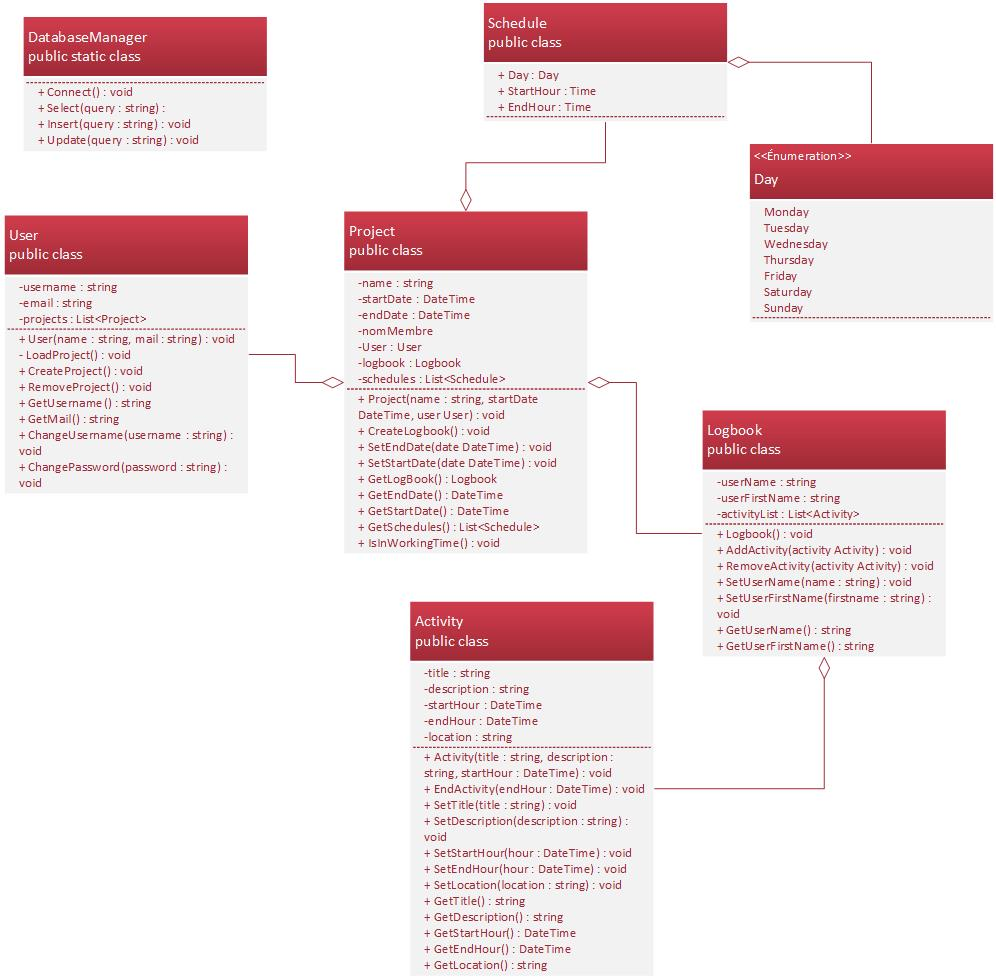
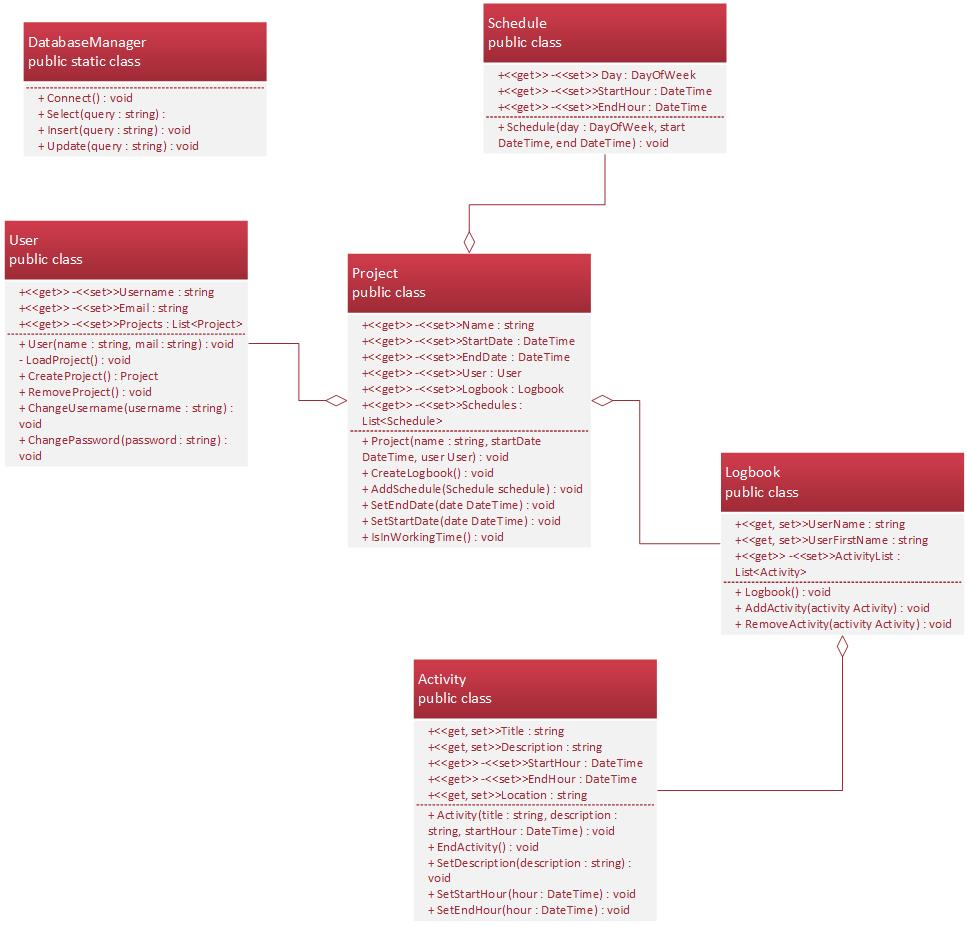
Début des tests unitaires, modifications du digramme UML

diff --git a/APP/Logy/Logy/Logy.UnitTest/UnitTest1.cs b/APP/Logy/Logy/Logy.UnitTest/UnitTest1.cs
@@ -8,11 +8,77 @@ namespace Logy.UnitTest
     public class UnitTest1
     {
         [TestMethod]
-        public void TestMethod1()
+        public void AddProjectTest()
         {
-            Activity act = new Activity("ui", "Je suis une activité", new DateTime(1, 1, 1));
+            User user = new User("user1", "user@mail");
 
-            Assert.AreEqual("ui", act.GetTitle());
+            user.CreateProject("project1", new DateTime(2018, 12, 11));
+
+            int nbProjects = user.Projects.Count;
+
+            Assert.AreEqual(1, nbProjects);
         }
+
+        [TestMethod]
+        [ExpectedException(typeof(Exception))]
+        public void AddSameNameProject()
+        {
+            User user = new User("user1", "user@mail");
+
+            user.CreateProject("project1", new DateTime(2018, 12, 11));
+            user.CreateProject("project1", new DateTime(2018, 12, 11));
+        }
+
+        [TestMethod]
+        public void RemoveProjectTest()
+        {
+            User user = new User("user1", "user@mail");
+
+            user.CreateProject("project1", new DateTime(2018, 12, 11));
+            user.CreateProject("project2", new DateTime(2018, 12, 11));
+
+            user.RemoveProject(user.Projects[0]);
+
+            int nbProjects = user.Projects.Count;
+
+            Assert.AreEqual(1, nbProjects);
+        }
+
+        [TestMethod]
+        public void CreateLogbookTest()
+        {
+            User user = new User("user1", "user@mail");
+
+            user.CreateProject("project1", new DateTime(2018, 12, 11));
+            user.Projects[0].CreateLogbook();
+
+            Assert.AreEqual(0, user.Projects[0].Logbook.Activitylist.Count);
+        }
+
+        [TestMethod]
+        public void WorkingHourTest()
+        {
+            User user = new User("user1", "user@mail");
+            Project project = user.CreateProject("project1", new DateTime(2018, 12, 11));
+
+            project.AddSchedule(new Schedule(DayOfWeek.Tuesday, new DateTime(0, 0, 0, 8, 0, 0), new DateTime(0, 0, 0, 17, 0, 0)));
+
+            Assert.AreEqual(true, project.IsInWorkingTime());
+        }
+
+        [TestMethod]
+        public void EndActivityTest()
+        {
+            User user = new User("user1", "user@mail");
+            Project project = user.CreateProject("project1", new DateTime(2018, 12, 11));
+
+            Activity myActivity = new Activity("my activity", "C'était bien", new DateTime(2018, 12, 11, 8, 50, 0));
+
+            project.Logbook.AddActivity(myActivity);
+            myActivity.EndActivity();
+
+            Assert.AreEqual(DateTime.Now, myActivity.GetEndHour());
+        }
+
     }
 }
